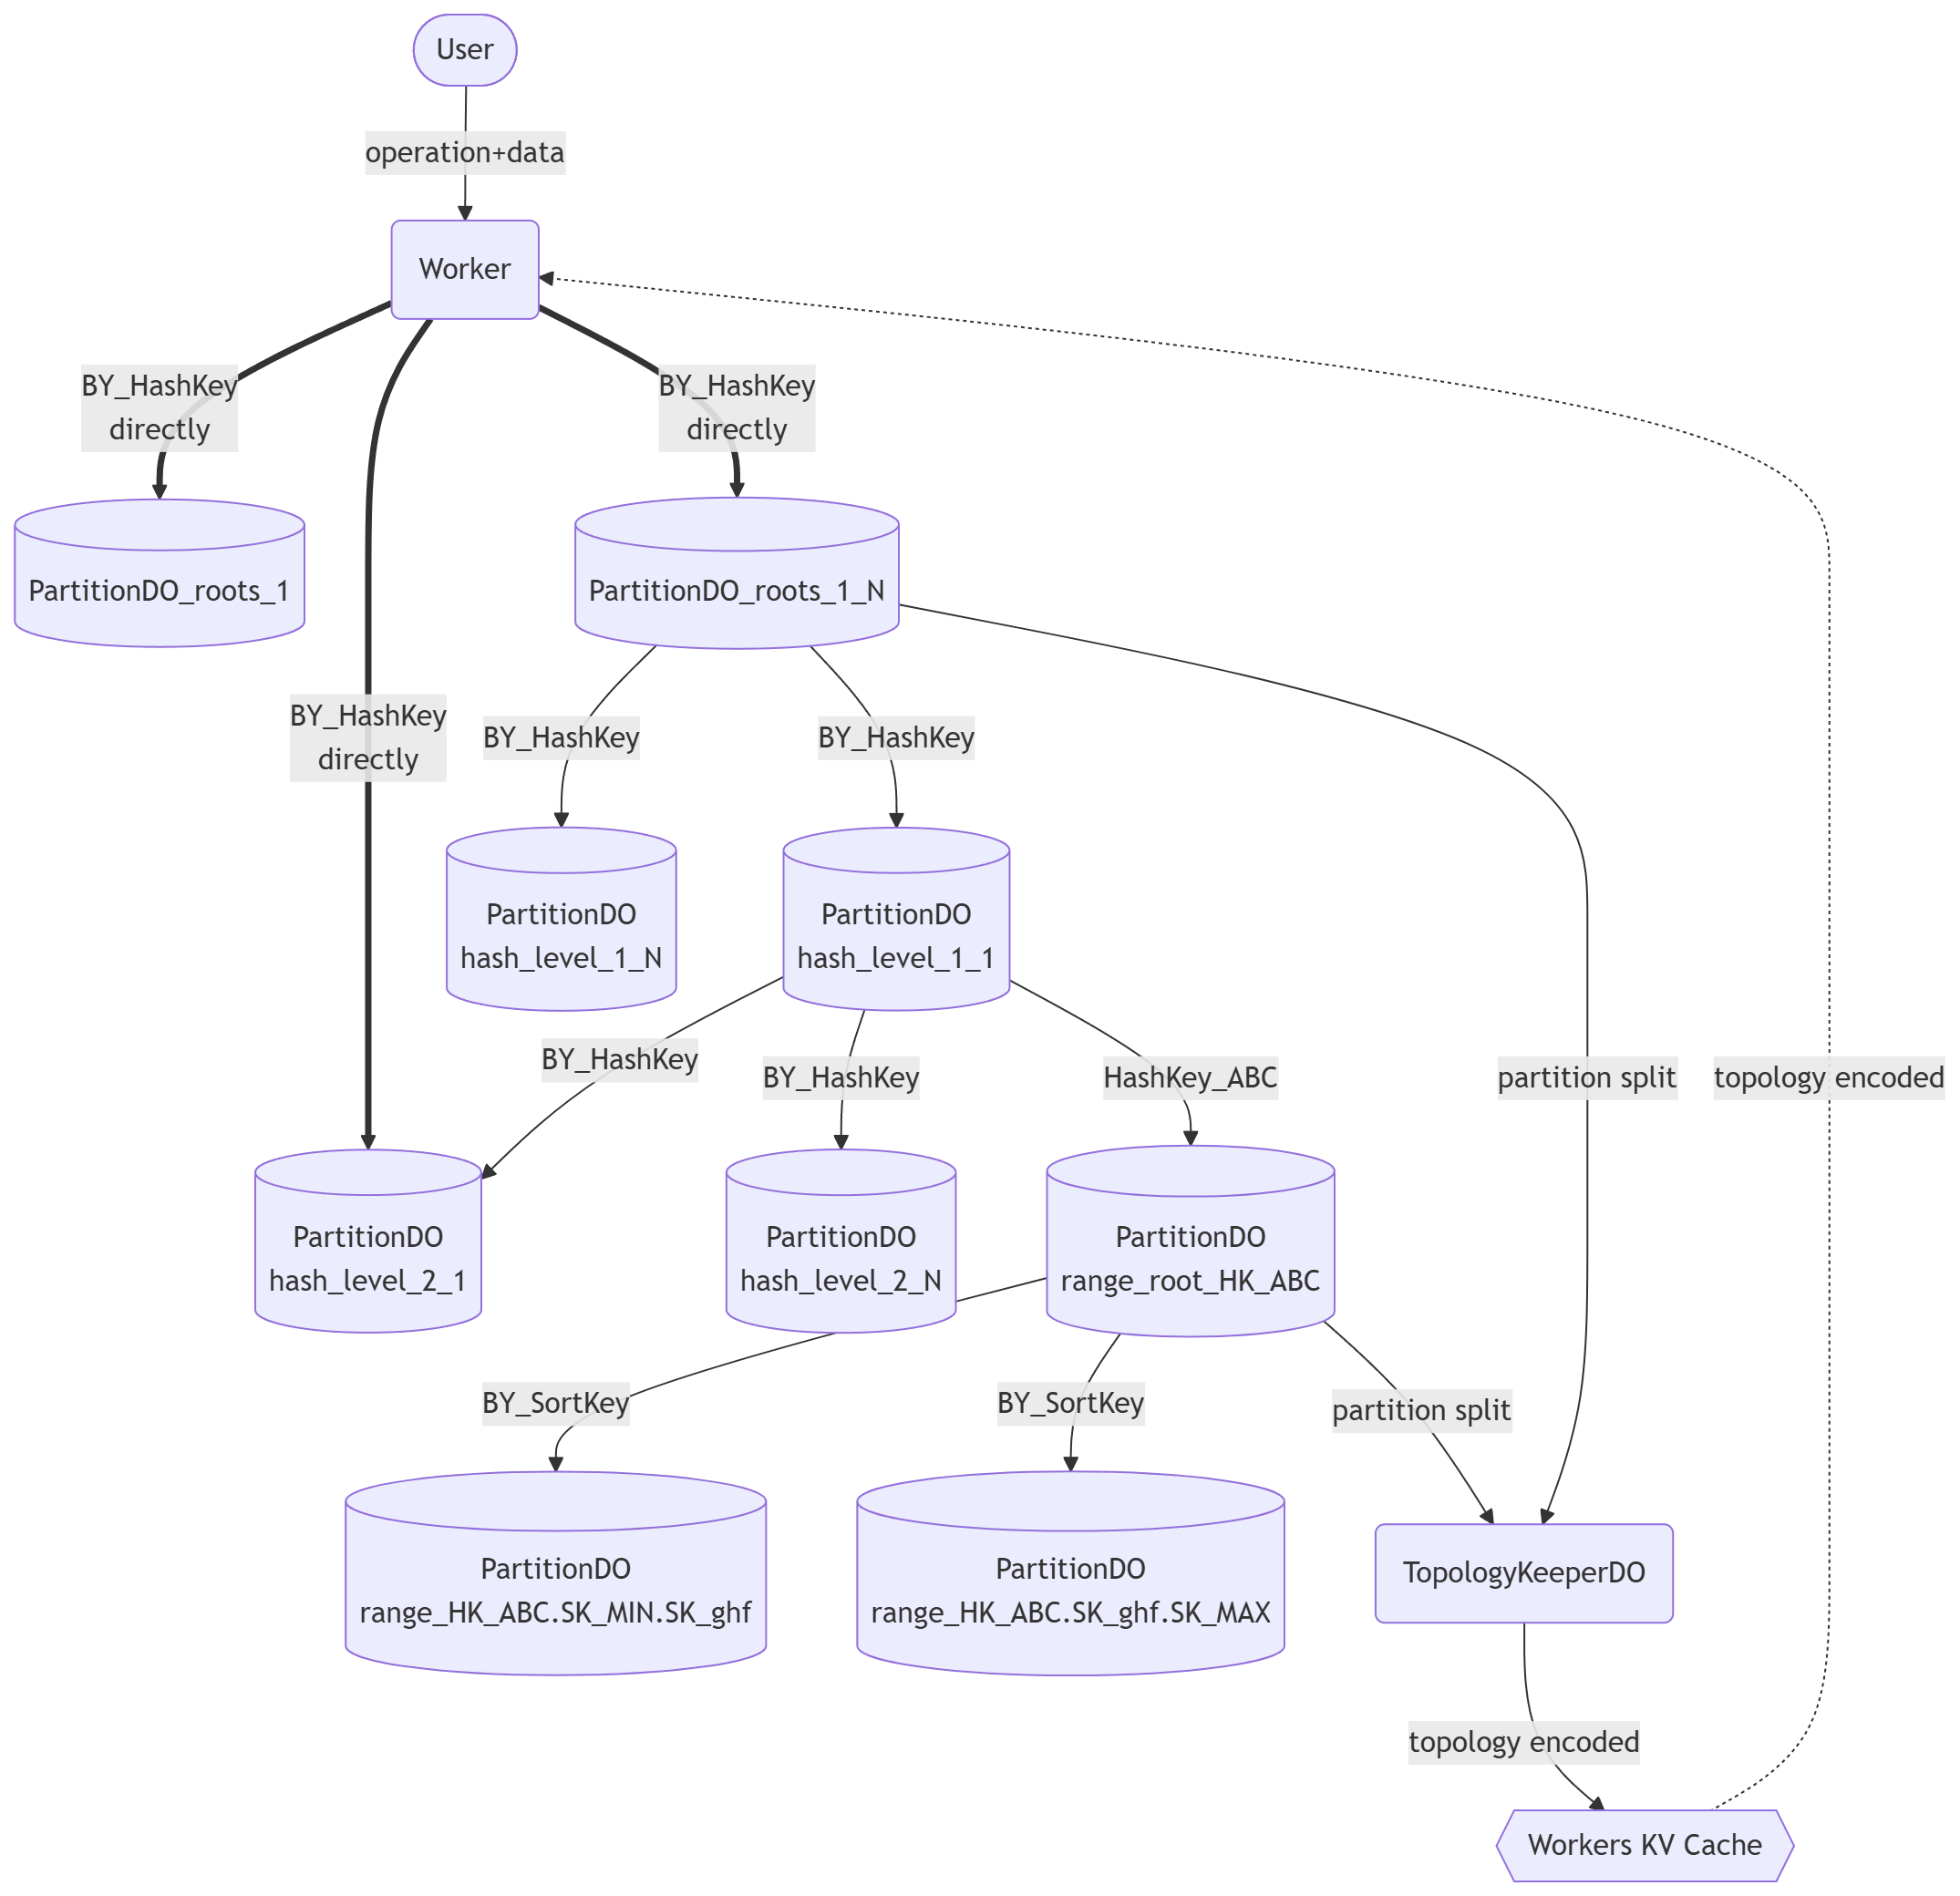
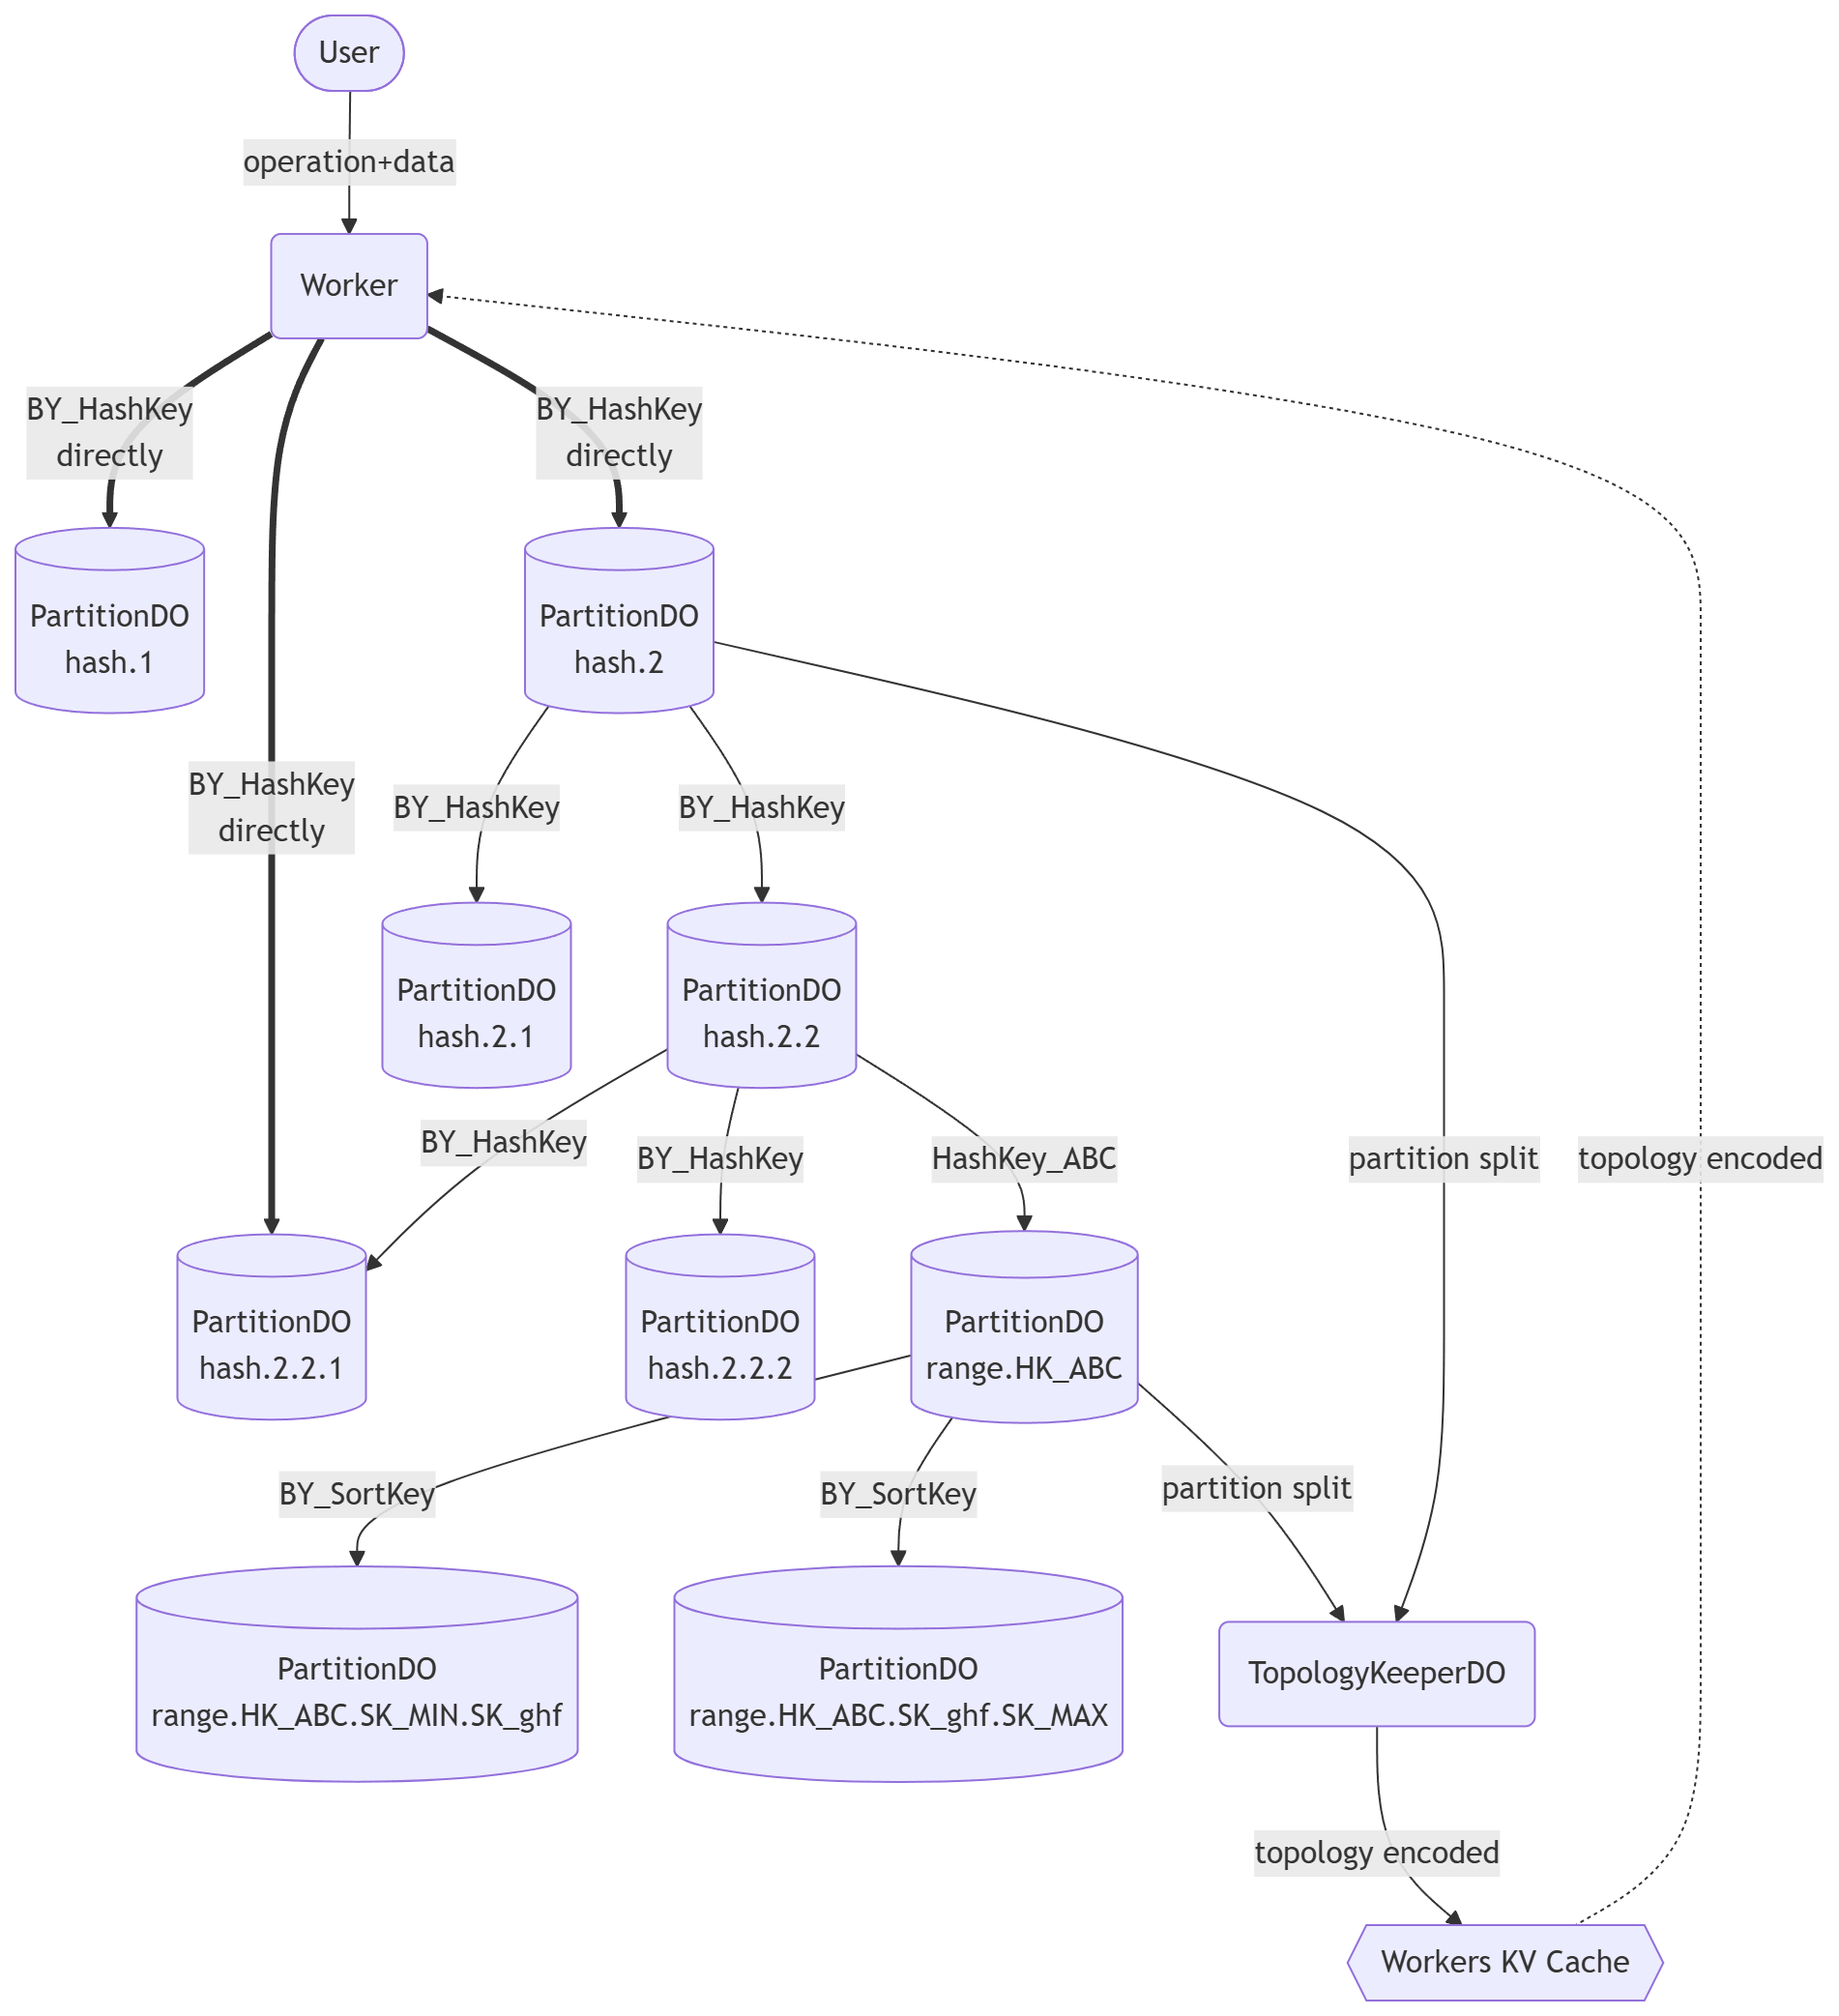
rewords

diff --git a/src/_posts/2026-06-05-fokosdb.md b/src/_posts/2026-06-05-fokosdb.md
@@ -10,13 +10,13 @@ Let's clarify a few things first.
 
 - Is FokosDB production ready? Not **yet**, but it will be soon.
 - Is FokosDB going to be fast and suitable for all use-case? No, read the [Tenets](#tenets) and [Goals](#goals-and-api) sections below.
-- Is FokosDB going to be enough for many applications on Cloudflare Workers? Absolutely, most of them actually.
+- Is FokosDB going to be enough for many applications on Cloudflare Workers? Absolutely.
 - Is FokosDB really bottomless storage? Yes, as long as Durable Objects can be created in your account.
 - Is FokosDB an official Cloudflare product? No, hence not officially supported by Cloudflare.
 
 Is this yet another vibe-slop? No. I did a lot of iterations on the design, and researched a lot of similar databases before I settled on the following tenets and goals. A lot of the code is AI generated (see [AI productivity boost](#ai-productivity-boost) section) but I reviewed every single line, and most likely I modified every single line in some way or another.
 
-FokosDB is the database I want to use in production for my projects on Cloudflare's Developer Platform. My plan is to be correct, reliable, and with sufficient performance.
+FokosDB is the database I want to use in production for my projects on Cloudflare's Developer Platform.
 
 ## Table of contents
 
@@ -56,14 +56,15 @@ These tenets drive the trade-offs in the architecture and characteristics of the
     - Even if the per-item throughput will be constrained, throughput across thousands or millions of items should scale up linearly to the number of items.
 - Good enough performance.
     - Network round-trips are inevitable when running at the edge and wanting to reach durable storage, but we should reduce them as much as possible.
+    - Ballpark read item latency: same colo less than 50ms, same region less than 200ms.
 - Managed scaling.
-    - Scaling should be automatic without manual intervention. I just want to write and read data.
+    - Scaling should be automatic without manual intervention. Just write and read data.
 
 ## Goals and API
 
 These goals drive the implementation and API provided.
 
-- Each item is identified by a **hash key** and an optional **sort key**.
+- Each item is identified by a **hash key** and a **sort key**.
     - When items have the same hash key they should have different sort keys, and items having the same hash key are sorted alphabetically based on their sort key allowing range queries within the hash key.
 - Each item is less than `1MB` (default limit is `500KB`). For larger blobs I will implement integration with R2 (object storage).
 - Scalability is achieved by sharding across many different items, ideally with different hash keys to eliminate hot partitions as much as possible.
@@ -72,7 +73,7 @@ These goals drive the implementation and API provided.
     - All write operations support conditional checks.
 - Distributed transactions across items: `transactWriteItems`, `transactReadItems`.
     - Restrictions on number of items and total request size apply.
-- I decide about trade-offs based on these use-cases: a) 100-500 GB total storage, and b) 100 TB+ total storage, both assuming well spread out hash keys.
+- I decide about trade-offs based on these load profiles: a) 100-500 GB total storage, and b) 100 TB+ total storage, both assuming well spread out hash keys.
 
 My [favourite database is Amazon DynamoDB](https://www.lambrospetrou.com/articles/dynamodb/) in case it wasn't clear so far.
 
@@ -88,14 +89,14 @@ I also wanted to push Durable Objects and the Developer Platform as much as I ca
 
 ps. My day job is at Cloudflare's Developer Platform.
 
-Finally, it's fun.
+Finally, because it's fun.
 
 ## Platform constraints
 
 Before we dive into the architecture, let's recap our constraints.
 
 - Each Worker and Durable Object has a memory limit of 128MB, and that's [potentially reused across requests handled on the same server](https://developers.cloudflare.com/durable-objects/platform/pricing/#:~:text=If%20your%20account%20creates%20many%20instances%20of%20a%20single%20Durable%20Object%20class%2C%20Durable%20Objects%20may%20run%20in%20the%20same%20isolate%20on%20the%20same%20physical%20machine%20and%20share%20the%20128%20MB%20of%20memory.).
-    - I want less than 5MB memory used, ideally less than 1MB, inside each Worker doing a database request.
+    - I want less than 5MB memory used for the sake of metadata, ideally less than 1MB, inside each Worker doing a database request.
 - Durable Objects are single-threaded, [I like to call them tiny servers](https://www.lambrospetrou.com/articles/durable-objects-cloudflare/), and they have resource limits. Even though [this documentation is about D1, the exact same performance characteristics apply to Durable Objects](https://developers.cloudflare.com/d1/platform/limits/#how-much-work-can-a-d1-database-do).
     - For easy back of the napkin calculations assume each Durable Object can handle 1000 requests per second doing reads and 300-500 requests per second doing writes, assuming a handful of rows involved.
 - Each SQLite Durable Object can store [up to 10GB and each row up to 2MB](https://developers.cloudflare.com/durable-objects/platform/limits/).
@@ -104,7 +105,7 @@ Before we dive into the architecture, let's recap our constraints.
 - Durable Objects do not (yet) run in all of Cloudflare's edge locations, so even if a Worker runs within 50ms of your location, the closest Durable Object location could be hundreds of milliseconds away. See <https://where.durableobjects.live> for a cool website showing Durable Object locations by region and city.
     - I cannot do anything about this for now, but this is the main latency overhead we will observe and try to optimize for.
 
-I love constraints because they force you to compromise something to benefit on something else. We have to think up front about these constraints to design a system that attempts to satisfy these constraints as best as we can.
+I love constraints because they force you to compromise something to benefit on something else. We have to think up front about these constraints to design a system that satisfies them as much as we can.
 
 Let's have some fun. 😉
 
@@ -124,25 +125,25 @@ flowchart TD
 
     C{{Workers KV Cache}} -.->|topology encoded| B
 
-    B ==>|BY_HashKey\ndirectly| DD[(PartitionDO_roots_1)]
-    B ==>|BY_HashKey\ndirectly| D[(PartitionDO_roots_1_N)]
-    D -->|BY_HashKey| E[(PartitionDO\nhash_level_1_1)]
-    D -->|BY_HashKey| F[(PartitionDO\nhash_level_1_N)]
+    B ==>|BY_HashKey\ndirectly| DD[(PartitionDO\nhash.1)]
+    B ==>|BY_HashKey\ndirectly| D[(PartitionDO\nhash.2)]
+    D -->|BY_HashKey| E[(PartitionDO\nhash.2.2)]
+    D -->|BY_HashKey| F[(PartitionDO\nhash.2.1)]
 
     B ==>|BY_HashKey\ndirectly| FF
-    E -->|BY_HashKey| FF[(PartitionDO\nhash_level_2_1)]
-    E -->|BY_HashKey| FFN[(PartitionDO\nhash_level_2_N)]
+    E -->|BY_HashKey| FF[(PartitionDO\nhash.2.2.1)]
+    E -->|BY_HashKey| FFN[(PartitionDO\nhash.2.2.2)]
 
-    E -->|HashKey_ABC| G[(PartitionDO\nrange_root_HK_ABC)]
-    G -->|BY_SortKey| H[(PartitionDO\nrange_HK_ABC.SK_MIN.SK_ghf)]
-    G -->|BY_SortKey| I[(PartitionDO\nrange_HK_ABC.SK_ghf.SK_MAX)]
+    E -->|HashKey_ABC| G[(PartitionDO\nrange.HK_ABC)]
+    G -->|BY_SortKey| H[(PartitionDO\nrange.HK_ABC.SK_MIN.SK_ghf)]
+    G -->|BY_SortKey| I[(PartitionDO\nrange.HK_ABC.SK_ghf.SK_MAX)]
 
     TK(TopologyKeeperDO) -->|topology encoded| C
     G -->|partition split| TK
     D -->|partition split| TK
 ```
 
-[Mermaid LIVE EDITOR](https://mermaid.live/edit#pako:eNqNlGtvmzAUhv-K5U-JRqJyLUNqpQSapkJNJzW7lgpZ4QTQwEbG2ZYF_vsMlCZb06x8sLF9nvc9Ngfv8IpFgB28ztjPVUK4QEsvoEg-k8HDxxL44xCNRpcVK4ATkTL6LiKCVGg6-Mz4d-DDLrhr3d2umy2R_wm5ZJVAXaPRWPKCFSxj8RYBbRwjqRDQjpqii4vLavo1nJMy8WEbBDRKOaxEtq2Q5z0MPsi00sbbuws5Y6IM1eHjW9ijaLjoYa_d2R6u0NVfhBRL5EqYwQ_IJKi-Ds5Ogs-Ob0h6NuuCrl56nDLR9tkdIxcn0Ta_Q_iJDCdTt0LX_7Kc0Bja4wznfhPTO1_3zveMi9Z5fpztsPG9H97eLJouTtavi9z8T0TSrdbky34jS3-wfKo5H0BWr3fXVfLLSnQPjYveCZVFlopKCh1-9KPLAcUKjnkaYUfwDSg4B56TZoh3DRxgkUAOAXbkawRrsslEgANaS6wg9BtjeU9ytokT7KxJVsrRppB_G3gpiTnJn2c50Ai4yzZUYEdXz4xWBTs7_As7tjHWLFUzddOSvWlrCt5iZ3RujnXTtm1dN2zbMq33tYJ_t77qWNPPTfPMUiVg6IauKxiiVDB-210N7Q1R_wEMBVtU)
+[Mermaid LIVE EDITOR](https://mermaid.live/edit#pako:eNqNlG9vmzAQxr-K5VeJRlCAhgSkVkqgaSrUdlKzv6WKrHABNLCRMeoy4LvPQGmjNenKC8B393senzhc4i0LANt4l7CnbUS4QGvXp0he88HDlxz44xCNRhcVy4ATETP6KSCCVGgx-Mb4L-DDrri7O2XZRXPkfUUO2UZQ12ikSl6wjCUs3COgjWMgFXzaUQt0fn5RLX5sViSPPNj7Pg1iDluR7Cvkug-Dz3JbcePt3slcJKtUbfj4Efgoq_es23b2ylbo8jjwHrI8gbzs8AP7XC67osu36qfkDwyOUbcnsbaVQ_CZ2swXToWu_uU4oSGoK69J94ZXveE946I1XL2Hqffe5ub6tnmE0e60yPX_RCTdas2_v_aw9gbr59HyAOSQunfdwL4dOOfQOOudUJ4lsaik0OEXPpr2KVZwyOMA24IXoOAUeEqaJS4b2McighR8bMvXAHakSISPfVpLLCP0J2NpT3JWhBG2dyTJ5arI5E8FbkxCTtKXKAcaAHdYQQW2jak1blWwXeLf2NZ0UzVmlqlb2libns3MqYL3MjxRNdMwJ2fWRJcllqbXCv7TGo9Vy5i1tdOJPrEMy1IwBLFg_KY7AtqToP4Lj_ZNag)
 
 </div>
 
@@ -155,12 +156,12 @@ Let's first examine the life of a request assuming that there is no information 
 1. A user of the application in London (LHR) makes a request that ultimately needs to write an item `{hashKey: "lambros", sortKey: "post_001", data}`.
 2. The user request is processed in a Worker that will run close to the user (LHR) unless there is [explicit placement](https://developers.cloudflare.com/workers/configuration/placement/#configure-explicit-placement-hints) configured.
 3. The Worker will extract the `hashKey: "lambros"` from the request and hash it across `N` root hash partitions to pick the one handling this `hashKey`.
-4. The request will be sent to the selected root hash partition, in this case `PartitionDO_roots_1_N` from the diagram above.
+4. The request will be sent to the selected root hash partition, in this case `PartitionDO hash.2` from the diagram above.
 5. The hash partition will then check if it has already been split or not, in this case it did split, so it will repeat the hashing of `hashKey: "lambros"` across its child partitions and forward the request to the picked partition. The hashing function includes the "tree level" to randomize picked partitions across levels.
-6. The request is forwarded to hash partition `PartitionDO hash_level_2_1` that will repeat the same split check, and since it hasn't been split, it will process the request locally, and the response will travel all the way back to the Worker.
+6. The request is forwarded to hash partition `PartitionDO hash.2.1` that will repeat the same split check, and since it hasn't been split, it will process the request locally, and the response will travel all the way back to the Worker.
 7. Worker prepares the application response to the user.
 
-When there is topology information in the cache, the Worker will use the topology and pick the partition that owns the item and send the request directly to it, skipping the partition tree traversal. See the arrow directly to partition `PartitionDO hash_level_2_1` in the diagram above.
+When there is topology information in the cache, the Worker will use the topology and pick the partition that owns the item and send the request directly to it, skipping the partition tree traversal. See the arrow directly to partition `PartitionDO hash.2.2.1` in the diagram above.
 
 Keep in mind that a topology in the cache could be stale.
 However, due to our tree-based partitioning we will route the request to whichever partition owned the item we want as of the cached topology's information, and then that partition can continue forwarding the requests down the tree as necessary.
@@ -179,20 +180,20 @@ When the total storage of a single hash partition exceeds the configured thresho
 From that point on the hash partition only acts as request forwarder and never modifies its local storage for item operations.
 Asynchronously the child partitions will fetch the items that hash into them and start accepting item operations.
 
-When a single hash key is responsible for more than a configured percentage of storage (like 30-50%) in a hash partition due to many items with different sort keys, that hash key is promoted into its own range root partition and a similar data migration process is followed as a partition split.
+When a single hash key is responsible for more than a configured percentage of storage (like 30-50%) in a hash partition due to many items with different sort keys, that hash key is promoted into its own root range partition and a similar data migration process is followed as a partition split.
 
-In the diagram above the partition `PartitionDO range_root_HK_ABC` represents the range root partition for items with hash key `HK_ABC`.
+In the diagram above the partition `PartitionDO range.HK_ABC` represents the root range partition for items with hash key `HK_ABC`.
 
-Once the max storage threshold is breached in a range root partition, we schedule a split into child range partitions.
+Once the max storage threshold is breached in a root range partition, we schedule a split into child range partitions.
 The process for the range split partitions is the same as with hash partitions, with the difference that child partitions own a continuous segment of the items based on the sort keys instead of hashing items by hash key.
-See child range partitions `PartitionDO range_HK_ABC.SK_MIN.SK_ghf` and `PartitionDO range_HK_ABC.SK_ghf.SK_MAX` in the diagram above.
+See child range partitions `PartitionDO range.HK_ABC.SK_MIN.SK_ghf` and `PartitionDO range.HK_ABC.SK_ghf.SK_MAX` in the diagram above.
 
-A great feature of Durable Objects is that we can address them with globally unique names, and just by knowing the name we will always be routed wherever the Durable Objects runs.
+A great feature of Durable Objects is that we can address them with globally unique names, and just by knowing the name requests will always be routed wherever the Durable Objects runs.
 
 FokosDB partitions are named with the following scheme:
 
 - Hash partitions: `<dbName>.h.<rootHashIdx>.<L1_HashIdx>.<L2_HashIdx>...`
-    - The "hash idx" part refers to whatever number the hash key hashed into for that specific level. For example, if we have a fanout degree of 4, the `Lx_HashIdx` values will be numbers between 0 and 3.
+    - The "hash idx" part refers to whatever number the hash key hashed into for that specific level. For example, if we have a fanout degree of 4, the `Lx_HashIdx` values will be numbers between 0 and 3. In the diagram above the fanout degree was 2.
     - There isn't a hard limit on how deep the hash partition tree can be.
 - Root range partitions: `<dbName>.r.enc(hashKey).~min.~max`
 - Child range partitions: `<dbName>.r.enc(hashKey).enc(minSK).enc(maxSK)`
@@ -203,23 +204,23 @@ To recap, we have one Durable Object per data partition holding a number of item
 
 ### Topology invariants
 
-A nice property I like with this architecture is that even without any knowledge of the topology like how many partitions have been split or which keys have been promoted to their own range partitions, we can still process requests.
+A nice property I like with this architecture is that even without any knowledge of the topology, like how many partitions have been split or which keys have been promoted to their own range partitions, we can still process requests in the correct partition.
 
 The topology we implement has the following invariants / rules:
 
-1. A partition is either processing operations locally in the items it holds, or always forwards requests to its child partitions, but never both. The exception of the rule are the promoted hash keys for which we forward requests to their root range partition.
+1. A partition is either processing operations locally in the items it holds, or always forwards requests to its child partitions, but never both. The exceptions to the rule are the promoted hash keys for which we forward requests to their root range partition.
 2. Data partitions are split, but never merged back, therefore the topology tree always grows.
-3. Each item is owned by a single partition at any point in time and its ownership can only be passed to a single child partition, or a single root range partition.
+3. Each item is owned by a single partition at any point in time and its ownership can only be passed to a single child partition, or to a single root range partition.
 4. There is a fixed number of root hash partitions and that number is constant for the lifetime of the database. Once an item is written to the database, the number of root partitions can never change.
 5. Each hash partition is split into a fixed `N` number of child partitions. The number `N` is constant across all hash partitions and once the first split occurs it can never be changed.
 6. Each range partition can split into an arbitrary number of child range partitions.
-7. Any version of the topology can route requests to the correct partition. A fully updated topology should always be a single hop to the correct data partition.
+7. Any version of the topology can route requests to the correct partition. A fully updated topology information should always enable a single hop to the correct data partition.
 
 The fixed number for root partitions and the fixed number of hash split child partitions allow efficient topology encoding as we will see in the Topology encoding section.
 
 ## Splits and hash key promotions
 
-As mentioned in the tenets section, the throughput of the database should grow as we add more items with sufficiently spread out hash keys, and we should provide bottomless storage.
+As mentioned in the tenets section, the throughput of the database should scale automatically as we add more items with sufficiently spread out hash keys, and we should provide bottomless storage.
 
 We achieve this by using many Durable Objects.
 
@@ -227,7 +228,7 @@ At one extreme someone would put each item into its own Durable Object and get i
 
 We still use many Durable Object partitions to scale out the throughput and storage of the database, but we pack many items in each partition to exploit warm live DOs allowing latencies of single digit milliseconds (same colo).
 
-Once enough items are written breaching the storage threshold for a split, we schedule a split, initialize child partitions, migrate data to them, and only forward requests to them from now on.
+Once enough items are written and the storage threshold for a split is breached, we schedule a split, initialize child partitions, migrate data to them, and only forward requests to them from that point on.
 
 > **NOTE:** Before diving into the actual implementation flows, I want to point out that the data migration process is the biggest complexity of the entire thing.
 >
@@ -520,6 +521,8 @@ There is one Workers KV item with the following content:
     louds: UInt8Array,
     // X bits to allow 1% error rate for Z number of promoted hash keys.
     promotedHashKeys: BloomFilter,
+    // other schema/version/etc fields.
+    // ...
 }
 ```
 